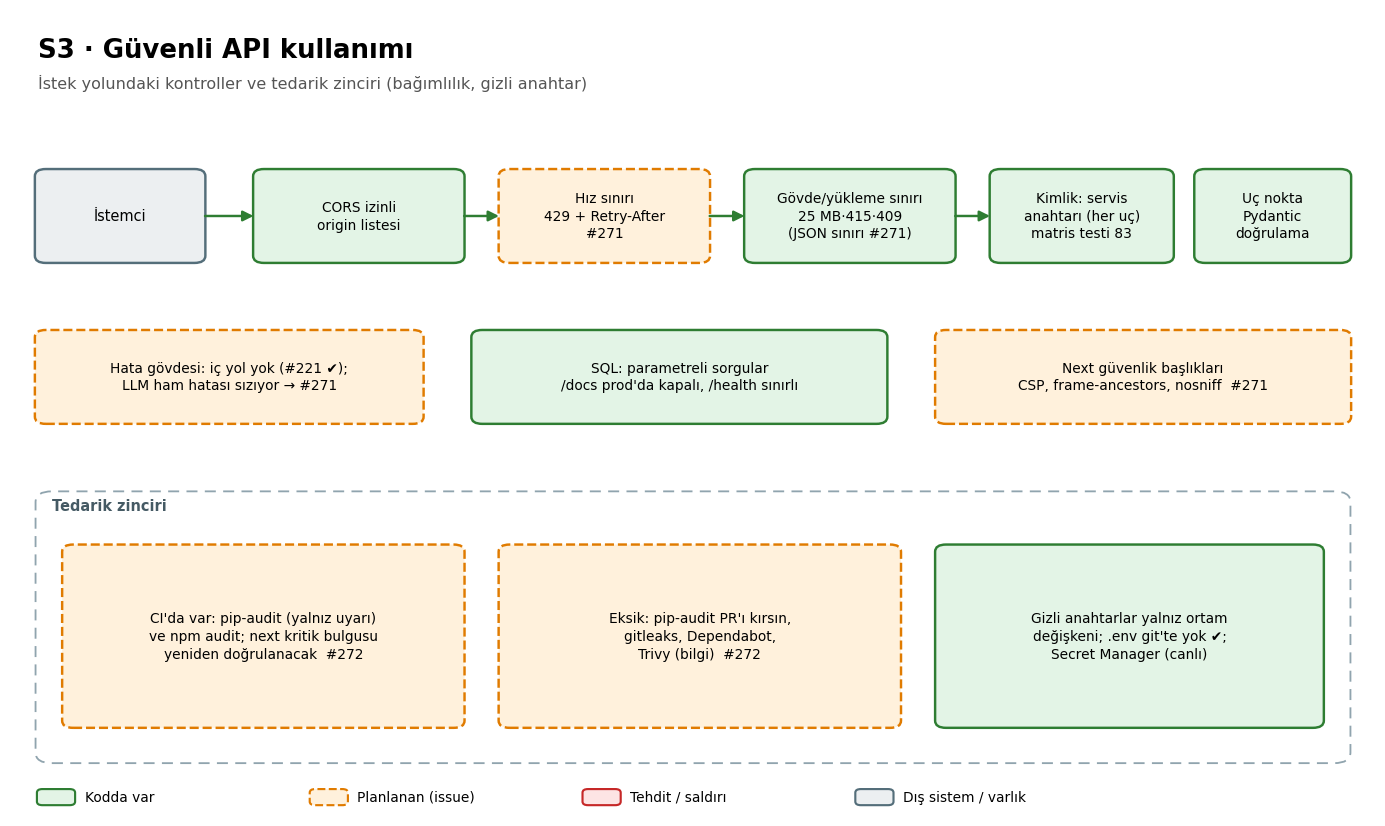
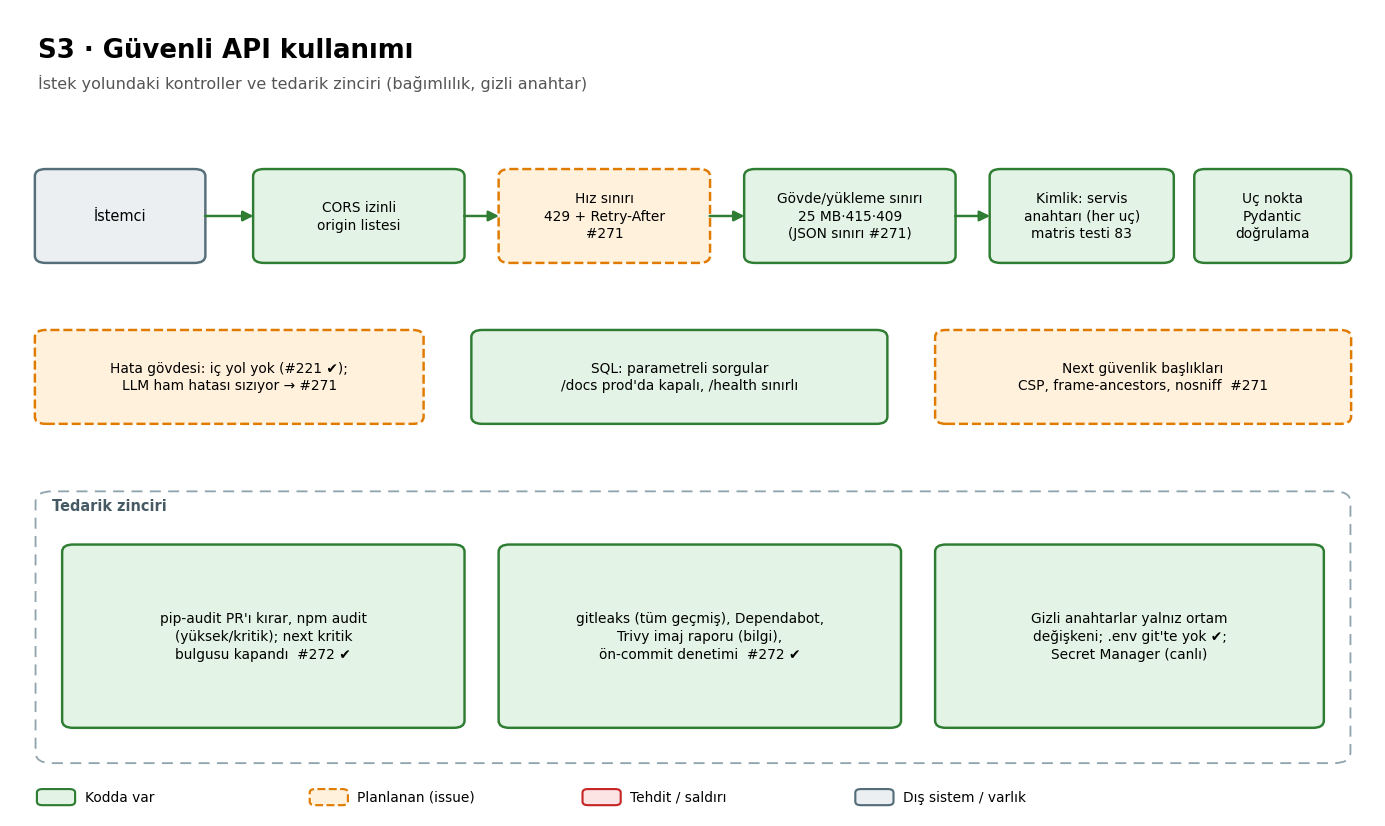
Güvenlik: bağımlılık, gizli anahtar ve imaj taramaları CI'da (#272)
pip-audit bulguda PR'ı kırar; gitleaks, Dependabot, Trivy (bilgi), ön-commit denetimi,
.gitignore anahtar kalıpları ve anahtar hijyeni testi eklendi; belgeler ve S3 şeması güncellendi.

Changed region(s): [[0.031, 0.6356, 0.652, 0.908]]

diff --git a/backend/tests/test_secret_hygiene.py b/backend/tests/test_secret_hygiene.py
@@ -1,0 +1,95 @@
+"""Gizli anahtar hijyeni (#272): LLM/STT/embedding/servis anahtarları yalnızca ortam değişkeninden
+okunur, kodda varsayılan değer taşımaz ve metin/günlük çıktısına düşmez."""
+
+import json
+import logging
+import re
+from pathlib import Path
+
+import pytest
+import structlog
+
+from app.core.config import Settings
+from app.core.logging import configure_logging
+
+SECRET_FIELDS = {
+    "SERVICE_API_KEY": "service_api_key",
+    "LLM_API_KEY": "llm_api_key",
+    "STT_API_KEY": "stt_api_key",
+    "EMBEDDING_API_KEY": "embedding_api_key",
+    "SUPABASE_SERVICE_ROLE_KEY": "supabase_service_role_key",
+}
+SENTINEL = "SIZDIRMA-TESTI-0123456789-abcdef"
+
+
+def _settings_from_env(monkeypatch: pytest.MonkeyPatch) -> Settings:
+    for env_name in SECRET_FIELDS:
+        monkeypatch.setenv(env_name, f"{SENTINEL}-{env_name}")
+    monkeypatch.setenv("APP_ENV", "test")
+    return Settings(_env_file=None)
+
+
+def test_secrets_are_read_from_environment(monkeypatch: pytest.MonkeyPatch) -> None:
+    s = _settings_from_env(monkeypatch)
+    for env_name, field in SECRET_FIELDS.items():
+        value = getattr(s, field)
+        assert value is not None
+        assert value.get_secret_value() == f"{SENTINEL}-{env_name}"
+
+
+def test_secret_fields_have_no_hardcoded_default(monkeypatch: pytest.MonkeyPatch) -> None:
+    for env_name in SECRET_FIELDS:
+        monkeypatch.delenv(env_name, raising=False)
+    s = Settings(_env_file=None, app_env="test")
+    for field in SECRET_FIELDS.values():
+        assert getattr(s, field) is None, f"{field} kodda varsayılan değer taşımamalı"
+
+
+def test_secrets_never_appear_in_text_or_dump(monkeypatch: pytest.MonkeyPatch) -> None:
+    s = _settings_from_env(monkeypatch)
+    rendered = [repr(s), str(s), s.model_dump_json(), json.dumps(s.model_dump(), default=str)]
+    for text in rendered:
+        assert SENTINEL not in text
+
+
+def test_logging_settings_object_does_not_leak(
+    monkeypatch: pytest.MonkeyPatch, capsys: pytest.CaptureFixture[str]
+) -> None:
+    s = _settings_from_env(monkeypatch)
+    configure_logging("DEBUG", json_logs=True)
+    try:
+        structlog.get_logger("test").info("ayarlar", settings=s, llm_key=s.llm_api_key)
+        logging.getLogger("stdlib").warning("ayarlar: %s", s)
+        err = capsys.readouterr().err
+        assert "ayarlar" in err
+        assert SENTINEL not in err
+    finally:
+        structlog.reset_defaults()
+
+
+def test_no_secret_like_literals_in_source() -> None:
+    """Kaynak koda gömülmüş sağlayıcı anahtarı desenleri (gitleaks'e ek, hızlı yerel kontrol)."""
+    pattern = re.compile(
+        r"(nvapi-[A-Za-z0-9_-]{40,}|sk-[A-Za-z0-9]{32,}|AIza[0-9A-Za-z_-]{35}|AKIA[0-9A-Z]{16}"
+        r"|ghp_[A-Za-z0-9]{36}|hf_[A-Za-z0-9]{30,}|-----BEGIN [A-Z ]*PRIVATE KEY-----)"
+    )
+    root = Path(__file__).resolve().parents[1]
+    offenders = [
+        str(p.relative_to(root))
+        for folder in ("app", "scripts", "tests")
+        for p in (root / folder).rglob("*.py")
+        if p.name != Path(__file__).name and pattern.search(p.read_text(encoding="utf-8"))
+    ]
+    assert offenders == []
+
+
+def test_env_example_has_empty_secret_values() -> None:
+    example = Path(__file__).resolve().parents[1] / ".env.example"
+    values: dict[str, str] = {}
+    for line in example.read_text(encoding="utf-8").splitlines():
+        if "=" in line and not line.lstrip().startswith("#"):
+            key, _, val = line.partition("=")
+            values[key.strip()] = val.strip()
+    for env_name in ("LLM_API_KEY", "STT_API_KEY", "EMBEDDING_API_KEY"):
+        if env_name in values:
+            assert values[env_name] == "", f"{env_name} .env.example içinde boş olmalı"

diff --git a/docs/diagrams/kaynak/guvenlik_semalari.py b/docs/diagrams/kaynak/guvenlik_semalari.py
@@ -194,8 +194,8 @@ def s3():
     c.box(34, 44, 30, 10, "SQL: parametreli sorgular\n/docs prod'da kapalı, /health sınırlı", "var", 9)
     c.box(68, 44, 30, 10, "Next güvenlik başlıkları\nCSP, frame-ancestors, nosniff  #271", "plan", 9)
     c.zone(2, 6, 96, 30, "Tedarik zinciri")
-    c.box(4, 10, 29, 20, "CI'da var: pip-audit (yalnız uyarı)\nve npm audit; next kritik bulgusu\nyeniden doğrulanacak  #272", "plan", 9)
-    c.box(36, 10, 29, 20, "Eksik: pip-audit PR'ı kırsın,\ngitleaks, Dependabot,\nTrivy (bilgi)  #272", "plan", 9)
+    c.box(4, 10, 29, 20, "pip-audit PR'ı kırar, npm audit\n(yüksek/kritik); next kritik\nbulgusu kapandı  #272 ✔", "var", 9)
+    c.box(36, 10, 29, 20, "gitleaks (tüm geçmiş), Dependabot,\nTrivy imaj raporu (bilgi),\nön-commit denetimi  #272 ✔", "var", 9)
     c.box(68, 10, 28, 20, "Gizli anahtarlar yalnız ortam\ndeğişkeni; .env git'te yok ✔;\nSecret Manager (canlı)", "var", 9)
     c.save("S3_guvenli_api.png")
 

diff --git a/docs/guvenlik_yuk.md b/docs/guvenlik_yuk.md
@@ -46,8 +46,28 @@ Mevcut, kapsamı genişlemeden korunan testler: sohbet oturumu başka sahibe ait
 | Gizli anahtar taraması | ✓ | İzlenen dosyalarda `nvapi-`/`sk-`/`AIza`/`AKIA`/`ghp_`/JWT desenleri yok; `backend/.env` git'te yok (`.gitignore`), `.env.example` değerleri boş; ölçüm günlüklerinde LLM anahtarı geçmiyor |
 | Hata iletisinde iç bilgi | düzeltildi | Bozuk ses hatası sunucu dosya yolunu gösteriyordu (#221). Kalan: LLM sağlayıcısının ham İngilizce hata gövdesi `calls.error`'da görünüyor (öneri: Türkçe, kısa kullanıcı iletisi; ayrıntı yalnızca `agent_runs`'ta) |
 | Bağımlılıklar — backend (`pip-audit`) | düzeltildi | 4 dolaylı paket / 17 bulgu: `certifi` (CA kökü), `filelock` (13), `langgraph-sdk`, `opentelemetry-api`; `uv.lock` güncellendi (certifi 2026.10.23, filelock 4.2.6, langgraph-sdk 0.4.11, opentelemetry-api 1.45.2). Hiçbiri uygulamanın doğrudan kullandığı koddan değil |
-| Bağımlılıklar — frontend (`npm audit`) | **AÇIK (frontend)** | `next@16.4.0` **kritik**: kimlik doğrulamasız RCE (Image Optimization'da SVG, `use cache` typed array) ve Server Actions DoS → `next@16.4.4`; `zod` yüksek → `npm audit fix`. 18 orta bulgu yalnızca eslint/openapi-typescript geliştirme araçlarında. h8-frontend'e bildirildi |
+| Bağımlılıklar — frontend (`npm audit`) | **Kapatıldı (#272)** | `next@16.4.0` kritik bulgusu sonraki sürümlerle kapandı; 2026-11-17 `npm audit --omit=dev`: kritik/yüksek yok, 1 orta (`next` 16.3.0–16.4.4, `unstable_cache` kök parametre bilgi sızıntısı; düzeltme 16.4.6, bkz. §4). Geliştirme araçlarındaki orta bulgular üretime girmez |
 | Docker | ✓ / iyileştirildi | Kök olmayan kullanıcı; Postgres ve Redis portları artık yalnızca `127.0.0.1`'e bağlı (eskiden tüm arayüzler; varsayılan şifre `postgres`). Compose'taki `SERVICE_KEY` varsayılanı `change-me-in-local-env` yalnızca yerel içindir; canlıda Secret Manager (`docs/canliya_alma.md`) |
 | CORS / API belgesi | ✓ | İzinli origin listesi (`CORS_ORIGINS`); `/docs` prod'da kapalı |
 | API düzeyinde hız sınırı | yok | Servis yalnızca .NET uygulamasından çağrılır; ihtiyaç olursa ters vekil (gateway) katmanında uygulanmalı |
 | LLM'e giden veri | ✓ | Transkriptteki kişisel veriler maskelenir (`app/services/masking.py`); maskesiz metne düşülmez |
+
+## 4. Tedarik zinciri taramaları (#272, 2026-11-17)
+
+**Yeniden çalıştırılan denetimler**
+- Backend: `uvx pip-audit --requirement requirements.txt --no-deps --disable-pip` → **bilinen açık yok**.
+- Frontend: `npm audit --omit=dev --audit-level=high` → kritik/yüksek yok; 1 **orta** bulgu: `next` 16.3.0–16.4.4 (`unstable_cache()` ile çağrılan `use cache` işlevinde kök parametre bilgi sızıntısı, GHSA-mfr8-8qww-v76h). Uygulama `unstable_cache`/`use cache` kullanmıyor, bu yüzden etkilenmiyor; düzeltme 16.4.6'dadır ve Dependabot `next` için PR açacaktır (sürüm yükseltmesi o PR'da yapılır). Eşik `high` olduğundan CI kırmaz; gerekçeli istisna budur.
+
+**CI'daki otomatik adımlar**
+| Adım | Davranış |
+|---|---|
+| `backend-ci.yml` → `security` (pip-audit) | Her bilinen açıkta **PR'ı kırar** (`continue-on-error` kaldırıldı, `Backend CI sonucu`na bağlandı). pip-audit önem derecesine göre süzemez; yanlış pozitifte `--ignore-vuln <ID>` ve bu bölümde gerekçe |
+| `frontend-ci.yml` → `npm audit --audit-level=high` | Yüksek/kritikte kırar (önceden vardı) |
+| `gizli-anahtar-taramasi.yml` (gitleaks) | Her PR'da tüm geçmişi tarar, bulguda kırar; ayrı iş akışı olduğundan diğer işlere süre eklemez |
+| `imaj-taramasi.yml` (Trivy) | Yalnızca bilgi raporu (`exit-code: 0`); PR'larda çalışmaz: haftalık, elle ve Dockerfile/kilit dosyası main'e girince |
+| `.github/dependabot.yml` | Haftalık uv, npm, GitHub Actions ve Docker güncelleme PR'ları |
+| `.pre-commit-config.yaml` | İsteğe bağlı yerel gitleaks + özel anahtar denetimi |
+| `.gitignore` | `.env*`, `*.pem`, `*.key`, `*.p12`, `*.pfx`, `*.jks`, `id_rsa*`, `credentials.json` |
+| `tests/test_secret_hygiene.py` | LLM/STT/embedding/servis/Supabase anahtarları yalnızca ortamdan okunur, varsayılanı yok, `repr`/dump/günlüğe düşmez; kaynakta anahtar deseni yok; `.env.example` boş |
+
+Sınırlar: gitleaks ve Trivy ilk kez CI'da çalışır (yerelde ikili indirilmedi); ilk çalışmada yanlış pozitif çıkarsa `.gitleaksignore` ile gerekçeli eklenir.

diff --git a/docs/guvenlik_mimarisi.md b/docs/guvenlik_mimarisi.md
@@ -82,9 +82,11 @@ Savunma beş güven sınırında kurulur:
 | Hata iletisinde sunucu yolu sızıntısı | **Düzeltildi** (#221); LLM ham hata gövdesi `calls.error`'da kalıyor | #271 |
 | Vekil rotada yol izin listesi | **Var** | `route.ts` `ALLOWED` |
 | Gizli anahtarlar yalnızca ortam değişkeni; `.env` git'te yok; `.env.example` boş | **Var** | `.gitignore`, `docs/guvenlik_yuk.md` |
-| Backend `pip-audit` (yalnızca uyarır), frontend `npm audit --audit-level=high` CI'da | **Var** | `.github/workflows/` |
-| Frontend `next` bağımlılığı kritik bulgusu | **Yeniden doğrulanacak** | #272 |
-| Gizli anahtar taraması CI'da, Dependabot, imaj taraması | **Eksik** | #272 |
+| Backend `pip-audit` (bilinen açıkta PR'ı kırar), frontend `npm audit --audit-level=high` CI'da | **Var** | `backend-ci.yml` (`security`), `frontend-ci.yml` |
+| Frontend `next` bağımlılığı kritik bulgusu | **Kapalı**: kritik/yüksek yok; kalan tek bulgu orta düzey (2026-11-17, `docs/guvenlik_yuk.md` §4) | #272 |
+| Gizli anahtar taraması (gitleaks, tüm geçmiş, her PR), Dependabot (uv, npm, actions, docker), ön-commit denetimi | **Var** | `gizli-anahtar-taramasi.yml`, `.github/dependabot.yml`, `.pre-commit-config.yaml` |
+| Docker imaj taraması (Trivy, yalnızca bilgi raporu; haftalık/elle/Dockerfile değişiminde) | **Var** | `imaj-taramasi.yml` |
+| Anahtarlar yalnızca ortam değişkeninden okunur, `SecretStr`, günlüğe/dökümlere düşmez | **Var** (testli) | `tests/test_secret_hygiene.py` |
 | Hız sınırlama, JSON gövde sınırı | **Eksik** (gateway'e bırakılmıştı) | #271 |
 | Aktarımda şifreleme (HTTPS zorunlu, HSTS) | **Eksik** (canlıya alma ortamına bırakılmış) | #271 |
 | Next güvenlik başlıkları (CSP, frame-ancestors, nosniff, Referrer-Policy) | **Eksik** | #271 |

diff --git a/README.md b/README.md
@@ -157,7 +157,7 @@ npm run lint && npm run build
 npm run e2e                        # Playwright (önce: npx playwright install)
 ```
 
-**CI (GitHub Actions):** Backend: değişiklik tespiti, ruff, mypy, pytest, bağımlılık sürümü uyumu, Docker imajı, güvenlik taraması (pip-audit), Docker Compose ile uçtan uca duman testi (API + Celery + DB + Redis), belge tutarlılığı. Frontend: ESLint + build, Playwright e2e (Chromium), Docker imajı. `main` dalı ruleset ile korunur; `Backend CI sonucu` ve `Frontend CI sonucu` kontrolleri zorunludur.
+**CI (GitHub Actions):** Backend: değişiklik tespiti, ruff, mypy, pytest, bağımlılık sürümü uyumu, Docker imajı, güvenlik taraması (pip-audit; açık bulguda kırılır), gizli anahtar taraması (gitleaks, ayrı iş akışı), haftalık Trivy imaj raporu, Dependabot, Docker Compose ile uçtan uca duman testi (API + Celery + DB + Redis), belge tutarlılığı. Frontend: ESLint + build, Playwright e2e (Chromium), Docker imajı. `main` dalı ruleset ile korunur; `Backend CI sonucu` ve `Frontend CI sonucu` kontrolleri zorunludur.
 
 ## Başarı kriterleri
 

diff --git a/Sistem_mimarisi_v6.md b/Sistem_mimarisi_v6.md
@@ -103,9 +103,9 @@ Siber güvenlik dersi kapsamında (**Ses Verisi Güvenliği ve Yapay Zekâ Güve
 | Asistan sorusu en fazla 5000 karakter; liste uçlarında sayfalama sınırı | **Var** |
 | Gizli anahtarlar yalnızca ortam değişkeninde; `.env` git dışında; canlıda Secret Manager | **Var** |
 | Docker: kök olmayan kullanıcı (backend, frontend); Postgres ve Redis yalnızca `127.0.0.1`'e açık | **Var** |
-| CI: backend `pip-audit` (uyarı), frontend `npm audit --audit-level=high` | **Var** |
+| CI: backend `pip-audit` (açık bulguda PR kırılır), frontend `npm audit --audit-level=high` | **Var** |
 | Hız sınırı, JSON gövde sınırı, Next güvenlik başlıkları, HTTPS/HSTS, LLM ham hatasının gizlenmesi | **Planlanan** #271 |
-| Gizli anahtar taraması (CI), Dependabot, imaj taraması, açık bağımlılık bulguları | **Planlanan** #272 |
+| Gizli anahtar taraması (gitleaks, CI), Dependabot, Trivy imaj taraması (bilgi), açık bağımlılık bulgularının kapatılması, anahtar hijyeni testi | **Var** (#272) |
 
 ### Prompt injection koruması — `S4_prompt_injection.png`
 
